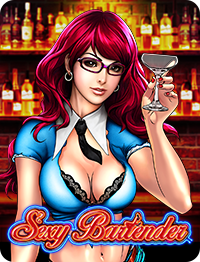
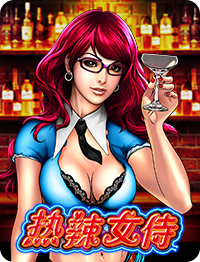
更新遊戲icon； remember me Bug;

Changed region(s): [[0.03, 0.7634, 0.99, 0.9771]]

diff --git a/src/app/component/lobby/lobby.component.html b/src/app/component/lobby/lobby.component.html
@@ -40,8 +40,8 @@
       <!-- 遊戲顯示元件  -->
       <div id="normal-game-container" (mousedown)="startScroll($event)">
           <div class="gameSeparate"></div>
-          <ng-container *ngFor="let item of (images | gamePipe: menuSelected.value: true)">
-            <div id="hot-game-frame" *ngIf="item !== null" [routerLink]="['/game' ,item.GameType ,item.DisplayName ]" >
+          <ng-container *ngFor="let item of (images | gamePipe: menuSelected.value: true )">
+            <div id="hot-game-frame" *ngIf="item !== undefined && item !== null" [routerLink]="['/game' ,item.GameType ,item.DisplayName ]" >
               <img id="hot-Tag" [src]="'lobby.hotGameTag' | translate" draggable="false" alt="hotGameTag">
               <img id="hot-pic" [src]="item.gameImgUrl" draggable="false" [alt]="item.DisplayName">
               <img id="hot-frame" src="/assets/imgs/picGameFrameLarge.png" draggable="false" alt="hotGameFrame">
@@ -50,7 +50,7 @@
 
 
           <ng-container *ngFor="let item of (images | gamePipe: menuSelected.value)">
-            <div class="normal-game-frame" [routerLink]="['/game' ,item.GameType ,item.DisplayName]" >
+            <div *ngIf="item !== undefined && item !== null" class="normal-game-frame" [routerLink]="['/game' ,item.GameType ,item.DisplayName]" >
               <img class="normal-pic" [src]="item.gameImgUrl" draggable="false" [alt]="item.DisplayName">
               <img id="normal-frame" src="/assets/imgs/picGameFrameSmall.png" draggable="false" alt="normalGameFrame">
             </div>

diff --git a/src/app/component/login/login.component.ts b/src/app/component/login/login.component.ts
@@ -47,11 +47,18 @@ export class LoginComponent implements OnInit {
       this.langChoosed = this.langList.filter((item) => item.lang === localStorage.getItem('lang'))[0];
     }
     // 設定記住帳密
-    if (! localStorage.getItem('remember')) {
-      this.remember = false;
-      localStorage.setItem('remember', 'false');
+    if (localStorage.getItem('remember') === 'true') {
+      // 取得記住之帳密
+      const account = localStorage.getItem('UserID');
+      const password = localStorage.getItem('Password');
+      if (account !== null && password !== null) {
+        this.account = this.auth.decrypt(account);
+        this.password = this.auth.decrypt(password);
+      }
+      this.remember = true;
     } else {
-      this.remember = localStorage.getItem('remember') === 'true';
+      localStorage.setItem('remember', 'false');
+      this.remember = false;
     }
   }
 

diff --git a/src/app/services/auth-guard.service.ts b/src/app/services/auth-guard.service.ts
@@ -50,7 +50,12 @@ export class AuthGuardService implements CanActivate {
   }
 
   loginValidate() {
-    const decryptToken = this.decrypt(sessionStorage.getItem('Token'));
+    const token = sessionStorage.getItem('Token');
+    if (token === null || token === undefined) {
+      this.router.navigate(['/login']);
+      return false;
+    }
+    const decryptToken = this.decrypt(token);
     if (decryptToken !== null && decryptToken !== '') {
       return true;
     } else {
@@ -90,8 +95,11 @@ export class AuthGuardService implements CanActivate {
     });
   }
 
-  logout() {
-    localStorage.removeItem('user');
+  logout(remember: boolean) {
+    if (!remember) {
+      localStorage.removeItem('UserID');
+      localStorage.removeItem('Password');
+    }
     sessionStorage.clear();
     this.UserID = null;
     this.Password = null;

diff --git a/src/app/component/lobby/lobby.component.ts b/src/app/component/lobby/lobby.component.ts
@@ -170,7 +170,8 @@ export class LobbyComponent implements OnInit, AfterViewInit {
   }
 
   logout() {
-    this.auth.logout();
+    const remember = localStorage.getItem('remember') === 'true' ? true : false;
+    this.auth.logout(remember);
   }
   // 註冊滑鼠點擊拖曳 的 移動事件
   startScroll(e1: MouseEvent) {
@@ -240,5 +241,9 @@ export class LobbyComponent implements OnInit, AfterViewInit {
       }
       // *******************************************
     }
+  }
+  log (a: any) {
+    console.log(a);
+    return a.to_string();
   }
 }

diff --git a/src/app/game-pipe.pipe.ts b/src/app/game-pipe.pipe.ts
@@ -11,7 +11,7 @@ export class GamePipePipe implements PipeTransform {
       if (gameType === 'all' || gameType === gameArray[0].GameType) {
         return [ gameArray[0] ];
       } else {
-        return [];
+        return [ ];
       }
     }
     switch (gameType) {
